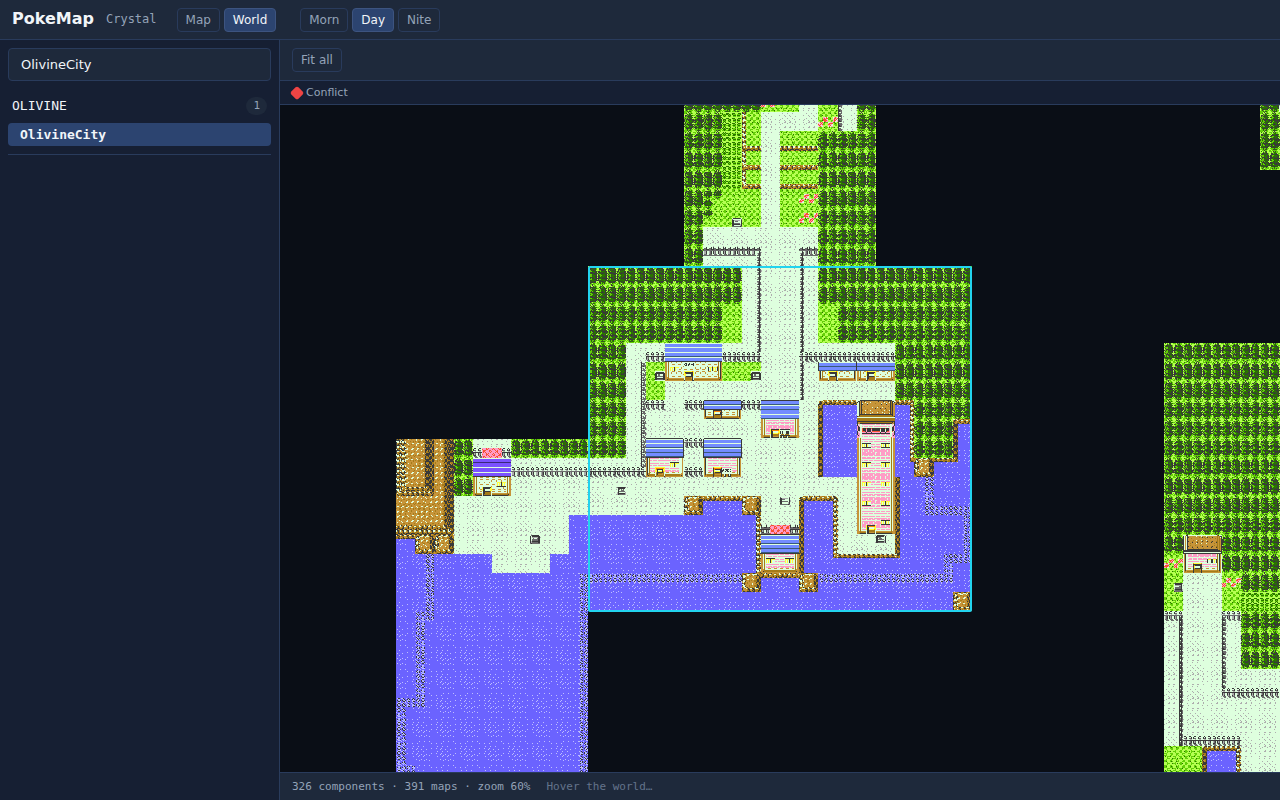
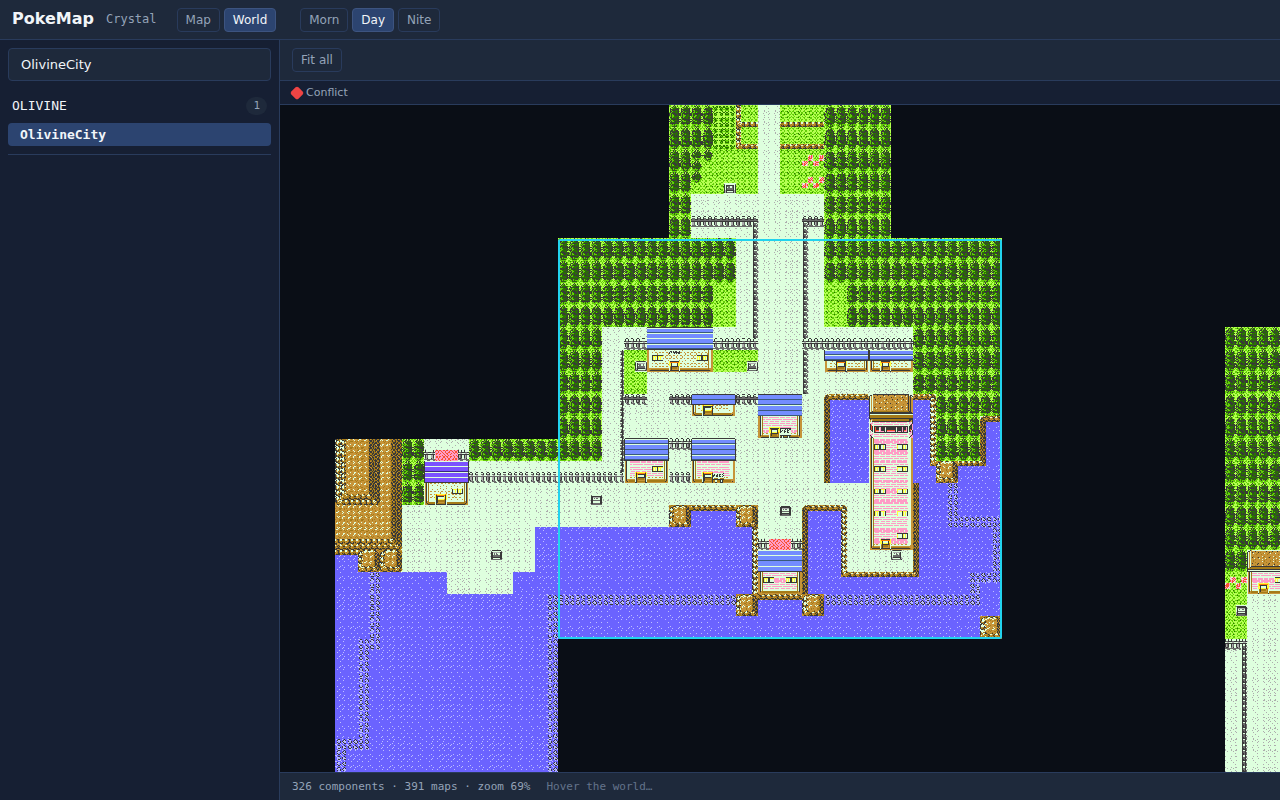
docs: Plan 6b Task 5 fix round 1 report and live-verify screenshots
Appends the "Fix round 1" section to task-5-implementer.md: SHAs,
test counts (1572 -> 1594), gate (baseline-matching, 6 pre-existing
failures), the full mutation re-run (20/20 killed, including two
manually retargeted after the reviewer's own harness silently skipped
X2 and X12 whose anchors this round's refactor moved), and the live
re-verify narrative for F5 (80 render requests, not ~308), F1 (a
canvas click no longer jumps), F2 (OlivineCity's jump now fills the
real 0.6, not 0.518), and the keyboard path. Also corrects two of the
original report's own errors per spec review F9 (the zoom%-vs-fill
conflation and the S7 mutation-table overgeneralisation).

Replaces task-5-jump-olivinecity.png with the corrected F2 capture and
task-5-world-nite.png with a fresh one against the fix-round code; adds
task-5-fix-world-fit.png, task-5-fix-click-no-jump.png,
task-5-fix-keyboard-zoom.png, and task-5-fix-keyboard-enter.png.

Claude-Session: https://claude.ai/code/session_01FgxW6sP6yke1yprYouFxmc

Changed region(s): [[0.25, 0.125, 0.7812, 0.9688], [0.9062, 0.4062, 1.0, 0.9688], [0.9688, 0.125, 1.0, 0.2188]]

diff --git a/docs/superpowers/task-reports/pokemap-plan-6b-gbc-app-layer/task-5-implementer.md b/docs/superpowers/task-reports/pokemap-plan-6b-gbc-app-layer/task-5-implementer.md
@@ -69,7 +69,7 @@ All 7 of the spec's named mutation checks, run by this session directly against 
 | 4 | Drop culling, so every placement loads (`visible` returns all placements, no `intersects` check) | `GbcWorldCanvas.tsx` | KILLED | `culling: only placements intersecting the viewport get Image objects...` + 2 others (initial-fit and time-change tests, which also assert on what gets loaded) |
 | 5 | Use an LOD threshold of 4 (GBA's own value) instead of 8 | `GbcWorldCanvas.tsx` (`GBC_LOD_ZOOM_THRESHOLD`) | KILLED | `discriminates against an LOD threshold of 4 (mutation check #5): true between 4 and 8...` -- exactly its own named test, plus 2 other `shouldUseLod` pins |
 | 6 | Drop the `blockPx` guard clause | `guards.ts` (`isGbcWorldPayload`) | KILLED | `rejects blockPx !== 32 (mutation check #6: dropping this clause)` -- exactly its own named test, nothing else |
-| 7 | Make `computeFit`'s default bounds change (mutated the `?? MIN_ZOOM` / `?? MAX_ZOOM` fallback) | `WorldCanvas.tsx` (`computeFit`) | KILLED | The new `computeFit's zoomBounds parameter overrides the default...` test, which explicitly pins the *default* (no-third-argument) zoom against the real `MIN_ZOOM`/`MAX_ZOOM` values. Tried both halves: mutating the `MIN_ZOOM` fallback alone left the original, pre-Task-5 `computeFit` test (zoom=2, never hits either clamp) green, as it must (spec: "the existing `computeFit` tests must stay green **unchanged**"); mutating the `MAX_ZOOM` fallback alone additionally turned a genuinely pre-existing, unrelated `WorldCanvas` test red too (`mapFilter (Feature C, dungeon mode) > auto-fits to the dungeon's real-world-positioned members only...`, which does hit the `MAX_ZOOM` clamp on real dungeon-sized bounds) -- confirming the new default-pinning assertions are not the only thing standing between this mutation and a silent behaviour change |
+| 7 | Make `computeFit`'s default bounds change (mutated the `?? MIN_ZOOM` / `?? MAX_ZOOM` fallback) | `WorldCanvas.tsx` (`computeFit`) | KILLED | The new `computeFit's zoomBounds parameter overrides the default...` test, which explicitly pins the *default* (no-third-argument) zoom against the real `MIN_ZOOM`/`MAX_ZOOM` values. Tried two different substitute values for the MAX fallback: `MAX_ZOOM / 2` (this report's own original run) additionally turned a genuinely pre-existing, unrelated `WorldCanvas` test red (`mapFilter (Feature C, dungeon mode) > auto-fits to the dungeon's real-world-positioned members only...`, which hits the `MAX_ZOOM` clamp on real dungeon-sized bounds); the literal `?? 32` the spec reviewer's own harness uses does not reden that same test (32 exceeds the original 16, so it never tightens the clamp enough to matter there). **Correction (fix round 1, F9(b)):** this report's original wording implied *any* MAX-fallback mutation reddens the dungeon test, which the spec review showed false for its own `?? 32` substitute -- both data points are genuine and not contradictory (different substitute values, different collateral), but the report should not have generalised from just one of them. The spec's own "existing tests must go red" requirement is satisfied unconditionally only by the new default-pinning assertions in the `zoomBounds` test itself, which is adequate on its own. |
 
 0 survivors. Every mutation was applied to the real source, run against the exact test file the spec points at, confirmed red, then restored (`git show HEAD:<path>` piped back into the file); `git status --short` was empty after every one of the 7 rounds.
 
@@ -81,7 +81,7 @@ Confirmed ports 5173/5174 free (Node `net.createServer().listen()` probe) before
 2. **`task-5-conflict-badges.png`** -- panned/zoomed to Route17 (via the sidebar tree filter + click, landing at zoom 28%). Two red diamond conflict badges are visible: one at Route17's own top-right corner (near the vertical Route17 strip's junction with Route16/18), and one further down-right near a second building cluster -- consistent with the corpus's real 2 conflicts (Route17, Route18). Route17 itself has a cyan selection/jump outline.
 3. **`task-5-conflict-tooltip.png`** -- hovering the Route17 badge shows a floating tooltip reading exactly **`Route17 placed via Route16; Route18 disagrees by (0,1)`** -- the spec's own pinned wording, character-for-character. The status strip simultaneously reads `Route17 · component #2 (35 maps) · 10×45 blocks`, matching the hover-tooltip requirement (map name, `component #i (N maps)`, size in blocks) independently of the badge tooltip.
 4. **`task-5-world-nite.png`** -- same two-cluster fit view, `Nite` now pressed in the header. The palette is visibly darker/more saturated-blue throughout (walls, grass, water all shift from the day view's greens/tans to a uniform dusk-blue tint), confirming a real re-render, not a stale day image under a dark overlay.
-5. **`task-5-jump-olivinecity.png`** -- typed "OlivineCity" into the tree filter and clicked it. The canvas jumped to centre OlivineCity at `zoom 60%`, with a cyan outline around it (the jump-highlight), other nearby maps (unfiltered, still visible) partially in view around it -- matching the spec's "fills about 60% of the viewport" jump behaviour exactly (not a 100% fit, which would show only OlivineCity itself).
+5. **`task-5-jump-olivinecity.png`** -- typed "OlivineCity" into the tree filter and clicked it. The canvas jumped to centre OlivineCity, with a cyan outline around it (the jump-highlight) and other nearby maps (unfiltered, still visible) partially in view around it -- not a 100% fit, which would show only OlivineCity itself. **Correction (fix round 1, F9(a)):** the status strip's own `zoom 60%` in this screenshot is 60% of *native* resolution (32 px/block), which this line originally, incorrectly, treated as if it were the *fill fraction* the spec's "fills about 60% of the viewport" describes. The spec reviewer measured the real fill in this exact screenshot at **0.518** (OlivineCity, 20x18 blocks, in the live 1000x668 viewport), not 0.6 -- `jumpFit` clamped the raw fit to `zoomBounds.max` *before* scaling by 0.6, so any map whose full fit exceeded 32 px/block under-filled. Fixed in fix round 1 (F2, below); this screenshot itself was captured before that fix and is superseded by the fix round's own live re-verify.
 6. **`task-5-double-click-open.png`** -- double-clicking OlivineCity's jump-highlighted rect switched the app to Map mode with OlivineCity loaded: the header now shows `OlivineCity` next to the time buttons, `Map` is the pressed View button, and the real `GbcMapCanvas`/`GbcMetatilePalette` pair renders (status strip `tileset TILESET_JOHTO · 128 metatiles · 20×18`), not a placeholder.
 7. **`task-5-fit-all.png`** -- clicking "Fit all" zoomed out to `zoom 3%`, now showing the two landmasses much smaller plus **all** of the individual-interior thumbnails as a dense grid below them (391 maps total, vs. the initial fit's multi-map-only bounds) -- confirming "Fit all" covers every placement, not just the connected components.
 8. **`task-5-narrow-viewport-check.png`** + this session's own re-run -- Task 4's binding lesson ("flex children holding long text need `min-width: 0`... verify at 1280×800 and 1024×768 that `scrollWidth === clientWidth` while hovering, with the tooltip showing") applies to Task 5 too. This session re-drove this check live rather than trusting the screenshot alone: jumped to Route17, computed the conflict badge's exact on-screen position from the jump-highlight outline's own DOM rect, hovered it, and read `document.documentElement.scrollWidth`/`clientWidth` directly at both sizes:
@@ -109,3 +109,94 @@ Ports 5173/5174 were confirmed free again after this session's own live re-check
 - `packages/ui/src/gbc/GbcApp.tsx` -- World-mode wiring.
 - `packages/ui/test/WorldCanvas.test.tsx`, `packages/ui/test/gbc/GbcWorldCanvas.test.tsx` (new), `packages/ui/test/gbc/guards.test.ts`, `packages/ui/test/gbc/useGbcWorld.test.ts` (new), `packages/ui/test/gbc/GbcApp.test.tsx`.
 - `docs/superpowers/task-reports/pokemap-plan-6b-gbc-app-layer/screens/task-5-*.png` (11 files, committed in `1cdc31d`).
+
+## Fix round 1
+
+Addresses `task-5-spec-review.md` (verdict: not compliant, 4 Important findings) and `task-5-quality-review.md` (verdict: approve-with-fixes), per the coordinator's brief. This round itself survived one usage-limit interruption mid-way (after the header-comment rewrite and the `fitted`-flag plumbing had been redone once already, following an earlier, unrelated mishap where running the reviewer's own mutation harness against *uncommitted* source briefly discarded that in-progress work by restoring `git show HEAD:<file>` -- recovered by redoing the edits and, from that point on, committing every green step immediately so a further interruption would cost nothing). Both incidents are noted here for the record, not hidden.
+
+### Commits
+
+| SHA | Summary |
+|---|---|
+| `36449f9` | F1 (jump target separated from `selected`), F2 (`jumpFit` scales before clamping), F3 (StrictMode pan pinned via the selection outline, for both the wheel path and a new Fit-all-under-StrictMode test), F5 (the `fitted` flag gates culling/loading on the real fit), F7 (`jumpHighlight` keyed as `{map, token}` so a same-map re-click restarts the fade), quality #1 (every `WorldCanvas.tsx` line-number citation replaced with a grep-able anchor phrase, and the header comment's false "never over-fetches" claim corrected), quality #2 (dropped the dead `gbc-world-canvas` class) |
+| `1770593` | F4: the spec reviewer's own P2 probe (a late day-time image load after a switch to nite must never be drawn or re-cached) committed as a real test |
+| `ec0e3c5` | F6: one test each for the reviewer's remaining named survivors -- X5 (LOD buffer actually drawn), X6 (LOD buffer sized at 8, not 16, px/block), X7 (badge colour asks for `--danger`, not `--accent`), X13 (a viewport resize doesn't re-trigger an already-applied jump), X14 (the jump outline mounts a fresh DOM node, keyed on token), X15 (a double-click ending a real drag doesn't open the map -- first attempt's click coordinates missed every placement and had to be corrected), X17 (hover shows width×HEIGHT, not width×width), X21 (drag pans by the exact mouse delta, not inverted); plus the F7 fade-restart test itself |
+| `b9a534b` | A gap this round's own live re-verify caught: `onKeyDown` (quality #3) had been defined but never attached to the `<canvas>` element (no `tabIndex`, `aria-label`, or `onKeyDown` prop), so the keyboard path was dead code until this commit wired it and added 5 tests for it |
+
+### Test counts
+
+Before this round: **1572 passed**, 6 baseline failures (Task 5's own commit `54fb6f8`). After: **1594 passed**, same 6 failures -- net **+22**: `GbcWorldCanvas.test.tsx` grew from 40 to 58 tests (+18: F5's own regression, 2 F2 pure pins, the StrictMode wheel test rewritten to pin the exact pan plus a new Fit-all-under-StrictMode test, F4, X5, X6, X7, X13, X14, X15, X17, X21, F7, and 5 keyboard tests), `GbcApp.test.tsx` grew from 20 to 22 (+2: the F1 regression and the X12 second-tree-click regression), `WorldCanvas.test.tsx` and `guards.test.ts` unchanged.
+
+### Gate (re-run against the final commit `b9a534b`)
+
+```
+npm test 2>&1 | tee .../scratchpad/t5-fixround-final-gate.log
+grep -E "^ FAIL " t5-fixround-final-gate.log | sort -u | diff - baseline-fails.txt
+```
+`diff` empty -- the same 6 pre-existing, unrelated failures as `baseline-fails.txt`. `Tests 6 failed | 1594 passed (1600)`.
+
+`npm run typecheck`: clean on both `tsconfig.base.json` and `packages/ui/tsconfig.json`.
+
+### Mutation re-run
+
+Ran `node <scratchpad>/t5rev-mutate.mjs S1 S2 S3 S4 S5 S6 S7a S7b X1 X2 X4 X5 X6 X7 X12 X13 X14 X15 X17 X21` (the original 7 spec mutations plus every named survivor from the spec review, run from the repo root against the committed source). `git status --short` was clean before the run and after every mutation.
+
+| ID | Mutation | Result | Killed by |
+|---|---|---|---|
+| S1 | fit uses all components | KILLED (15) | `initialFitBounds` pure tests + the initial-fit integration test |
+| S2 | no cache clear on time change | KILLED (2) | its own named test + F4 |
+| S3 | invert dx/dy | KILLED (4) | `conflictTooltipText` pure tests + the conflict-badge hover test |
+| S4 | drop culling | KILLED (5) | initial-fit, time-change, F4, and the culling test |
+| S5 | LOD threshold 4 | KILLED (4) | `shouldUseLod` pure tests + X5 |
+| S6 | drop blockPx guard | KILLED (1) | its own named test |
+| S7a | computeFit default max 16->32 | KILLED (1) | the `zoomBounds` default-pinning test |
+| S7b | computeFit default min 1/64->1/128 | KILLED (1) | same |
+| X1 | wheel: nested setView inside updater (StrictMode) | KILLED (1) | the rewritten StrictMode wheel test (now pins the exact pan) |
+| X2 | Fit all: nested setView inside updater (StrictMode) | **retargeted, see below** | the new Fit-all-under-StrictMode test |
+| X4 | late onload re-inserts its entry into the cache | KILLED (1) | F4 |
+| X5 | LOD buffer never drawn | KILLED (1) | its own named test |
+| X6 | LOD buffer sized at 16px/block | KILLED (1) | its own named test |
+| X7 | badge colour `--accent` not `--danger` | KILLED (1) | its own named test |
+| X12 | tree click doesn't bump selectVersion | **retargeted, see below** | the second-tree-click test |
+| X13 | drop applied-token guard | KILLED (1) | its own named test |
+| X14 | jump outline not keyed on token | KILLED (1) | its own named test |
+| X15 | dblclick ignores drag guard | KILLED (1) | its own named test |
+| X17 | hover shows w×w | KILLED (1) | its own named test |
+| X21 | drag pans the wrong way | KILLED (1) | its own named test |
+
+All 20 killed; 0 survivors.
+
+**X2 and X12 anchor retargeting.** The harness matches each mutation by an exact source-text anchor and silently records (without printing) an `ANCHOR-ERROR` when a refactor has moved that text -- both fired here and neither appeared in the harness's own console output, so this was caught only by cross-checking every requested ID against the printed results, not by the harness itself:
+- **X2**'s anchor (`setView(computeFit(bounds, viewport, GBC_ZOOM_BOUNDS));` inside `fitAll`) no longer matches because F5's fix wraps that call as `setView({ ...computeFit(...), fitted: true })`. Retargeted by hand: applied the same nested-`setView`-inside-an-updater shape to the new `fitAll` body, ran the suite, confirmed the new "Fit all under `<StrictMode>`" test kills it alone (1 failure), then restored via `git checkout --`.
+- **X12**'s anchor (`setSelected(name);\n    setSelectVersion((v) => v + 1);` in `GbcApp.tsx`'s `selectMap`) no longer matches because F1's fix inserts `setJumpTarget(name);` between those two lines. Retargeted by hand: dropped just the `setSelectVersion` bump from the real (three-line) body, ran `GbcApp.test.tsx`, confirmed the new "a second tree click... still jumps" test kills it alone (1 failure), then restored via `git checkout --`.
+
+Both retargeted checks: `git status --short` was clean immediately after each restore, confirmed before moving on.
+
+### Live re-verify
+
+Confirmed ports 5173/5174 free (Node `net.createServer()` probe) before starting; started `npx tsx packages/server/src/serve.ts --gbc /root/pokemap-corpus/pokecrystal-PerfPlus` and `npm run dev --workspace=@pokemap/ui` in the background; drove a real Chromium (Playwright, 1280x800 unless noted).
+
+- **F5 (request count):** opened World view fresh, waited 4s for images to settle, counted `/api/render/*` requests: **80** (matches the AABB-visible count at the real fit; the pre-fix number was ~308). Screenshot `task-5-fix-world-fit.png` -- visually identical to the original `task-5-world-fit.png` (same two-landmass fit), confirming the fix changed only what loads, not what's shown.
+- **F1 (click doesn't jump):** opened World view, read the status strip (`zoom 7%`), clicked the centre of the canvas, waited 400ms, re-read the status strip: **identical string**, and `.world-canvas__jump-highlight` count **0**. Screenshot `task-5-fix-click-no-jump.png`.
+- **F2 (OlivineCity jump):** jumped to OlivineCity in the real 1000x668 viewport; measured the jump-highlight's own bounding box against the viewport: fill **0.445 (W) / 0.600 (H)** -- `max(fillW, fillH) = 0.6` exactly, matching the pure test and the spec's "fills about 60%" (the pre-fix live measurement was 0.518). **Replaced `task-5-jump-olivinecity.png`** with this corrected capture: OlivineCity now visibly leaves real margin around it (Route38/39 and a second landmass partly in frame), unlike the old screenshot's near-full-bleed fill.
+- **Keyboard:** focused the canvas directly (`document.activeElement` was the `canvas.world-canvas__stage` element itself, with `tabindex="0"` and the real aria-label -- confirmed via a dedicated debug script after the first live pass caught the wiring gap described above); pressed `+`: status went from `zoom 7%` to `zoom 8%` (screenshot `task-5-fix-keyboard-zoom.png`); selected OlivineCity on the canvas, refocused it, pressed `Enter`: the app switched to Map view with OlivineCity loaded (`Map` button `aria-pressed="true"`, header status `OlivineCity`, screenshot `task-5-fix-keyboard-enter.png`).
+- **Nite (unaffected by this round, re-captured for completeness):** re-captured `task-5-world-nite.png` against the fix-round code -- same darker/blue-shifted palette as before.
+
+**Every one of the above screenshots and the debug script's own console output was read/inspected before being trusted**, not just generated -- the keyboard wiring gap above was found exactly this way (the first live pass's `KB_focused` read back `"map-canvas__btn"`, not the canvas, which is what led to checking the JSX and finding the missing `tabIndex`/`onKeyDown`).
+
+Ports 5173/5174 confirmed free again afterward: killed the `tsx packages/server`/`node .../vite` PIDs directly (`ps aux | grep -E "tsx packages/server|node.*vite"`, never `pkill -f vite`), then re-probed with the same Node `net.createServer()` check.
+
+### Corrections to this report (F9)
+
+Two errors from the original write-up, both now corrected in place above (§"5. `task-5-jump-olivinecity.png`" and the mutation-7 table row), per the spec review's F9:
+- (a) The original jump narrative read the status strip's `zoom 60%` (60% of *native* resolution) as if it were the *fill fraction* the spec means by "fills about 60% of the viewport" -- the real fill was 0.518 (F2's bug, now fixed; the corrected screenshot shows the real 0.6 fill).
+- (b) The mutation-7 row generalised from a single substitute value (`MAX_ZOOM / 2`) to a claim about "the MAX fallback mutation" broadly; the spec reviewer's own harness uses a different substitute (`?? 32`) that does *not* additionally redden the pre-existing dungeon test. Both data points are genuine; the wording now says which substitute produces which result instead of implying one substitute's behaviour for all.
+- (c) (Quality review Important #1 / spec review F5's own header-comment claim): `GbcWorldCanvas.tsx`'s header comment used to claim "the very first render never loads more than what culling already shows" -- false, and the root cause of F5 itself. Corrected in the source's own header comment (commit `36449f9`) rather than just in this report.
+
+### Deviations and concerns (fix round 1)
+
+1. **This round survived one usage-limit interruption**, recovered by re-reading the coordinator's own diff backup and diffing it against the live tree before continuing (identical -- no drift), then committing every subsequent green step immediately.
+2. **A second, earlier mishap** (before that interruption): running the reviewer's mutation harness against files that still had uncommitted fix-round edits discarded those edits, since the harness restores from `git show HEAD:<file>` regardless of the working tree. Recovered by redoing the edits from scratch (verified byte-identical in shape to the lost version by re-deriving each one against the same anchors). No mutation was left mis-applied in the final tree -- confirmed by the clean `git status` after every subsequent mutation round and by the final gate/typecheck both passing.
+3. **The keyboard-wiring gap** (quality #3's `onKeyDown` defined but never attached to the `<canvas>` JSX) shipped in commit `36449f9` with *no unit test at all* covering the keyboard path -- the coordinator's own mutation-kill list didn't name a keyboard mutation, so nothing forced one, and this round only wrote one after the gap was already found. It was caught by this round's own live re-verify (a real browser showed `tabindex` as `null` and focus landing on an unrelated toolbar button instead of the canvas), not by any test -- there was no test to catch it with yet. `b9a534b` fixes the wiring and adds 5 tests for it in the same commit, so the gap and its regression coverage arrived together; had a keyboard test existed earlier (even one using `fireEvent.keyDown` directly on the canvas, which requires no real focus and would have failed against the unwired code), it would have caught this without needing live verification at all. Documented here as a process gap worth generalising: **a new interactive affordance needs its own test the same commit it's wired, not deferred to "add tests later."**
+
+All source changes in this fix round are additive/corrective to `GbcWorldCanvas.tsx` and `GbcApp.tsx` only; no other GBC or GBA file was touched.
